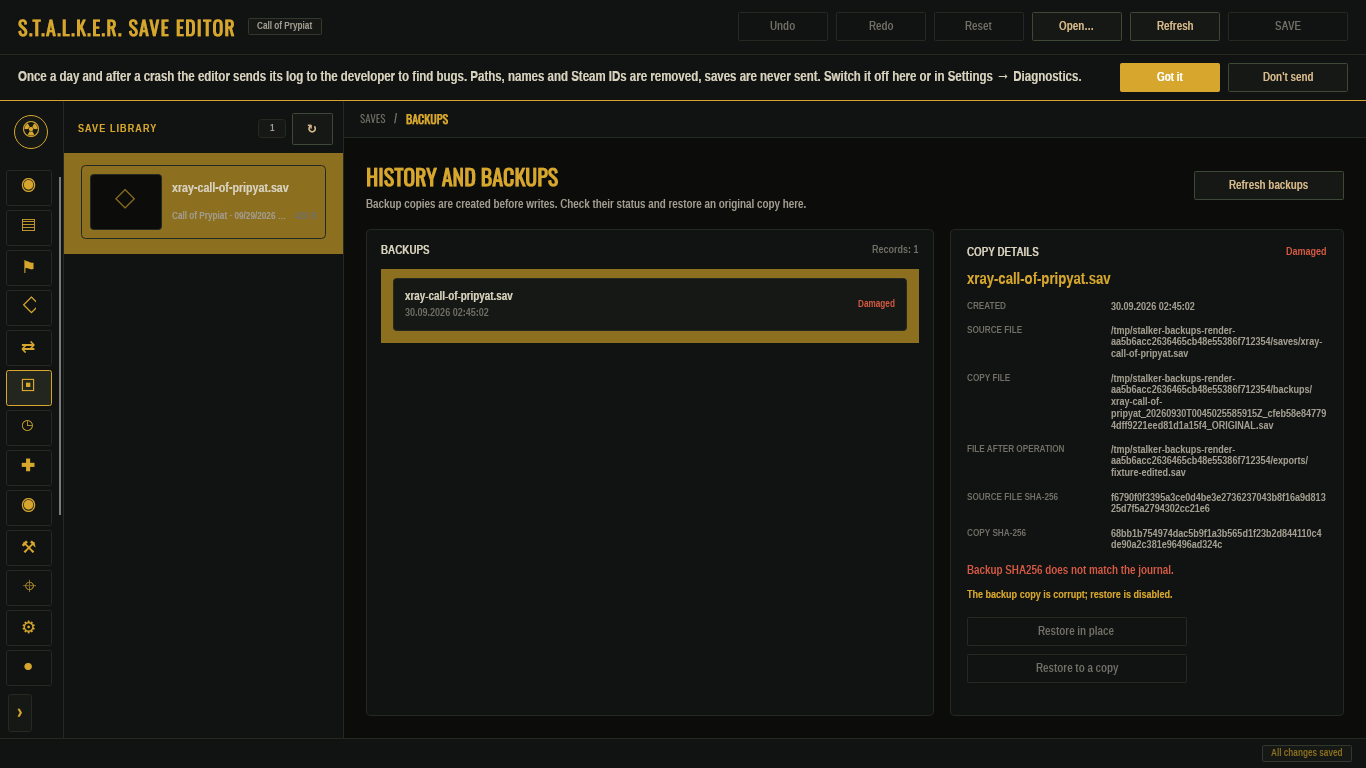
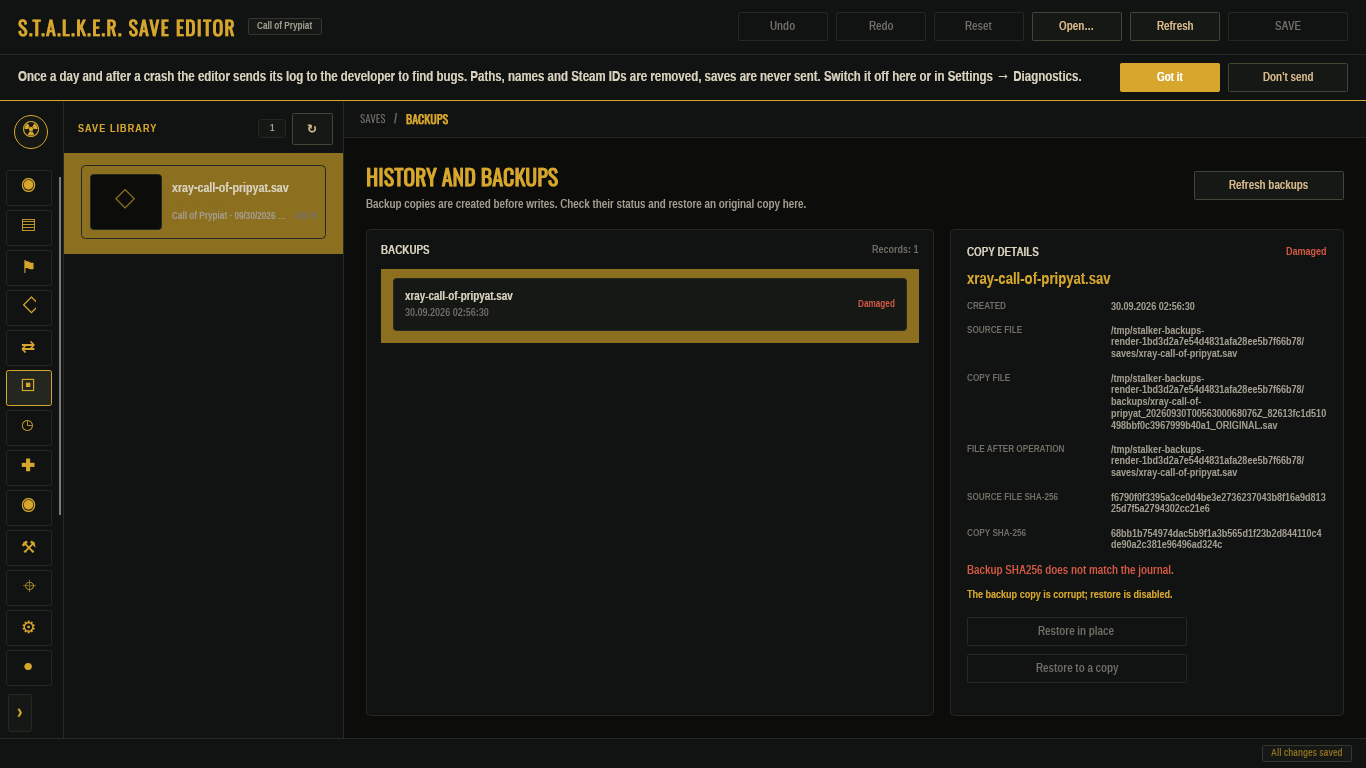
fix(desktop): gate in-place backup restores

Changed region(s): [[0.7994, 0.5, 0.9839, 0.5625], [0.7994, 0.5938, 0.9531, 0.625], [0.7994, 0.4375, 0.9531, 0.4688]]

diff --git a/tests/StalkerSaveEditor.Core.Tests/Desktop/BackupsViewTests.cs b/tests/StalkerSaveEditor.Core.Tests/Desktop/BackupsViewTests.cs
@@ -87,17 +87,69 @@ public sealed class BackupsViewTests
         Assert.All(row.GetLogicalDescendants().OfType<Button>(), button => Assert.False(button.IsEnabled));
     }
 
-    private static BackupRecordViewModel Backup(string directory, string sourceName, BackupVerificationStatus status) => new(new LocalSaveBackupRecord(
-        Path.Combine(directory, sourceName + ".json"),
-        Path.Combine(directory, sourceName + "_ORIGINAL.sav"),
-        "2026-09-30T10:00:00Z",
-        Path.Combine(directory, sourceName),
-        new string('a', 64),
-        Path.Combine(directory, sourceName + "_OUTPUT.sav"),
-        new string('b', 64),
-        JsonDocument.Parse("{}").RootElement,
-        status,
-        Error: status == BackupVerificationStatus.Verified ? null : "Journal check failed."));
+    [Fact]
+    public void Verified_export_backup_allows_restore_to_copy_but_not_in_place()
+    {
+        using var directory = new TemporaryDirectory();
+        var viewModel = CreateViewModel(directory.Path);
+        var exported = Backup(directory.Path, "exported.sav", BackupVerificationStatus.Verified, mode: "export");
+        viewModel.Backups.Add(exported);
+        typeof(SaveLibraryViewModel).GetProperty("SelectedBackup")!.SetValue(viewModel, exported);
+
+        var view = BackupsView.Build(viewModel);
+        var restoreInPlace = view.GetLogicalDescendants().OfType<Button>()
+            .Single(button => button.Name == "backup-restore-in-place");
+        var restoreCopy = view.GetLogicalDescendants().OfType<Button>()
+            .Single(button => button.Name == "backup-restore-copy");
+        var disabledReason = view.GetLogicalDescendants().OfType<TextBlock>()
+            .Single(text => text.Name == "backup-restore-disabled-reason");
+
+        Assert.False(restoreInPlace.IsEnabled);
+        Assert.True(restoreCopy.IsEnabled);
+        Assert.True(disabledReason.IsVisible);
+        Assert.False(string.IsNullOrWhiteSpace(disabledReason.Text));
+        Assert.False(string.IsNullOrWhiteSpace(ToolTip.GetTip(restoreInPlace)?.ToString()));
+    }
+
+    [Fact]
+    public void Verified_replacement_backup_requires_its_output_path_to_match_the_source()
+    {
+        using var directory = new TemporaryDirectory();
+        var backup = Backup(
+            directory.Path,
+            "mismatched.sav",
+            BackupVerificationStatus.Verified,
+            outputMatchesSource: false);
+
+        Assert.False(backup.CanRestoreInPlace);
+        Assert.True(backup.CanRestoreCopy);
+        Assert.False(string.IsNullOrWhiteSpace(backup.RestoreInPlaceDisabledReason));
+    }
+
+    private static BackupRecordViewModel Backup(
+        string directory,
+        string sourceName,
+        BackupVerificationStatus status,
+        string mode = "replace",
+        bool outputMatchesSource = true)
+    {
+        var sourcePath = Path.Combine(directory, sourceName);
+        var outputPath = outputMatchesSource && (mode is "replace" or "restore")
+            ? sourcePath
+            : Path.Combine(directory, sourceName + "_OUTPUT.sav");
+        var operation = JsonDocument.Parse($"{{\"mode\":\"{mode}\"}}").RootElement.Clone();
+        return new BackupRecordViewModel(new LocalSaveBackupRecord(
+            Path.Combine(directory, sourceName + ".json"),
+            Path.Combine(directory, sourceName + "_ORIGINAL.sav"),
+            "2026-09-30T10:00:00Z",
+            sourcePath,
+            new string('a', 64),
+            outputPath,
+            new string('b', 64),
+            operation,
+            status,
+            Error: status == BackupVerificationStatus.Verified ? null : "Journal check failed."));
+    }
 
     private static SaveLibraryViewModel CreateViewModel(string directory) => new(
         discoverLocalSaves: false,

diff --git a/src/StalkerSaveEditor.Desktop/ViewModels/BackupRecordViewModel.cs b/src/StalkerSaveEditor.Desktop/ViewModels/BackupRecordViewModel.cs
@@ -1,5 +1,6 @@
-using StalkerSaveEditor.Desktop.Services;
+using System.Text.Json;
 using StalkerSaveEditor.Core.Backups;
+using StalkerSaveEditor.Desktop.Services;
 
 namespace StalkerSaveEditor.Desktop.ViewModels;
 
@@ -36,6 +37,10 @@ public sealed class BackupRecordViewModel(LocalSaveBackupRecord record) : Observ
 
     public bool CanRestore => Status == BackupVerificationStatus.Verified;
 
+    public bool CanRestoreCopy => CanRestore;
+
+    public bool CanRestoreInPlace => CanRestore && HasInPlaceRestoreOperation();
+
     public string RestoreDisabledReason => CanRestore
         ? string.Empty
         : Status switch
@@ -44,6 +49,39 @@ public sealed class BackupRecordViewModel(LocalSaveBackupRecord record) : Observ
             BackupVerificationStatus.Corrupt => L.T("Резервная копия повреждена; восстановление отключено."),
             _ => L.T("Резервная копия не прошла проверку; восстановление отключено."),
         };
+
+    public string RestoreInPlaceDisabledReason => !CanRestore
+        ? RestoreDisabledReason
+        : CanRestoreInPlace
+            ? string.Empty
+            : L.T("Эту резервную копию можно восстановить только в отдельную копию.");
+
+    public string RestoreCopyDisabledReason => RestoreDisabledReason;
+
+    private bool HasInPlaceRestoreOperation()
+    {
+        if (Record.Operation.ValueKind != JsonValueKind.Object ||
+            !Record.Operation.TryGetProperty("mode", out var mode) ||
+            mode.ValueKind != JsonValueKind.String ||
+            mode.GetString() is not ("replace" or "restore") ||
+            string.IsNullOrWhiteSpace(Record.OutputPath))
+        {
+            return false;
+        }
+
+        try
+        {
+            var sourcePath = Path.GetFullPath(Record.SourcePath);
+            var outputPath = Path.GetFullPath(Record.OutputPath);
+            return OperatingSystem.IsWindows()
+                ? string.Equals(sourcePath, outputPath, StringComparison.OrdinalIgnoreCase)
+                : string.Equals(sourcePath, outputPath, StringComparison.Ordinal);
+        }
+        catch (Exception error) when (error is ArgumentException or IOException or NotSupportedException)
+        {
+            return false;
+        }
+    }
 
     public string ShortDateDisplay
     {

diff --git a/src/StalkerSaveEditor.Desktop/Views/BackupsView.cs b/src/StalkerSaveEditor.Desktop/Views/BackupsView.cs
@@ -213,8 +213,8 @@ public static class BackupsView
             FontSize = 11,
             TextWrapping = TextWrapping.Wrap,
         };
-        restoreReason.Bind(TextBlock.TextProperty, new Binding("SelectedBackup.RestoreDisabledReason"));
-        restoreReason.Bind(Visual.IsVisibleProperty, new Binding("SelectedBackup.CanRestore")
+        restoreReason.Bind(TextBlock.TextProperty, new Binding("SelectedBackup.RestoreInPlaceDisabledReason"));
+        restoreReason.Bind(Visual.IsVisibleProperty, new Binding("SelectedBackup.CanRestoreInPlace")
         {
             Converter = new FuncValueConverter<bool, bool>(canRestore => !canRestore),
         });
@@ -223,8 +223,8 @@ public static class BackupsView
         var actions = new StackPanel { Spacing = 8, Margin = new Thickness(0, 4, 0, 0) };
         var restoreInPlace = StalkerTheme.StalkerButton(L.T("Восстановить на место"), isPrimary: true, minWidth: 220);
         restoreInPlace.Name = "backup-restore-in-place";
-        restoreInPlace.Bind(Button.IsEnabledProperty, new Binding("SelectedBackup.CanRestore"));
-        restoreInPlace.Bind(ToolTip.TipProperty, new Binding("SelectedBackup.RestoreDisabledReason"));
+        restoreInPlace.Bind(Button.IsEnabledProperty, new Binding("SelectedBackup.CanRestoreInPlace"));
+        restoreInPlace.Bind(ToolTip.TipProperty, new Binding("SelectedBackup.RestoreInPlaceDisabledReason"));
         restoreInPlace.Click += (_, _) =>
         {
             if (viewModel.SelectedBackup is { } backup)
@@ -236,8 +236,8 @@ public static class BackupsView
 
         var restoreCopy = StalkerTheme.StalkerButton(L.T("Восстановить в копию"), isPrimary: false, minWidth: 220);
         restoreCopy.Name = "backup-restore-copy";
-        restoreCopy.Bind(Button.IsEnabledProperty, new Binding("SelectedBackup.CanRestore"));
-        restoreCopy.Bind(ToolTip.TipProperty, new Binding("SelectedBackup.RestoreDisabledReason"));
+        restoreCopy.Bind(Button.IsEnabledProperty, new Binding("SelectedBackup.CanRestoreCopy"));
+        restoreCopy.Bind(ToolTip.TipProperty, new Binding("SelectedBackup.RestoreCopyDisabledReason"));
         restoreCopy.Click += (_, _) =>
         {
             if (viewModel.SelectedBackup is { } backup)
